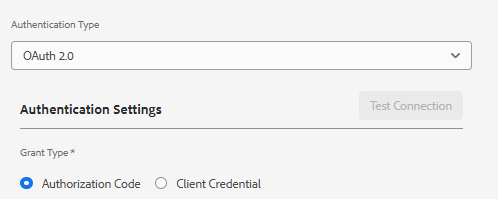
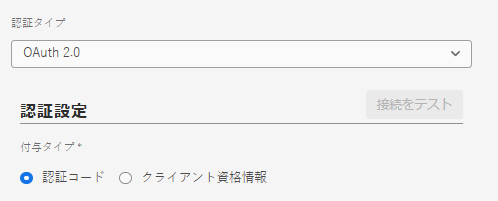
Updated by task 'AUTO_HANDOFF_1741010906730'  Changes for core/source commit https://git.corp.adobe.com/AdobeDocs/experience-manager-learn.en/commit/ce22dd482417a54d222165deaf485ff69c2856b7

diff --git a/help/cloud-service/forms/integrate-with-salesforce/create-data-source.md b/help/cloud-service/forms/integrate-with-salesforce/create-data-source.md
@@ -13,9 +13,9 @@ thumbnail: 331755.jpg
 exl-id: e2d56e91-c13e-4787-a97f-255938b5d290
 duration: 173
 source-git-commit: ce22dd482417a54d222165deaf485ff69c2856b7
-workflow-type: tm+mt
+workflow-type: ht
 source-wordcount: '75'
-ht-degree: 41%
+ht-degree: 100%
 
 ---
 
@@ -33,4 +33,4 @@ ht-degree: 41%
 | トークン URL にアクセス | https://newfocus-dev-ed.my.salesforce.com/services/oauth2/token |
 
 
-**更新およびアクセストークン URL のドメイン名は、Salesforce アカウントの設定に合わせて変更する必要があります**
+**更新およびアクセストークンの URL のドメイン名は、Salesforce アカウントの設定に合わせて変更する必要があります。**

diff --git a/help/cloud-service/forms/integrate-with-salesforce/create-connected-app.md b/help/cloud-service/forms/integrate-with-salesforce/create-connected-app.md
@@ -13,7 +13,7 @@ thumbnail: 331757.jpg
 exl-id: d9e6a4de-ba2c-4565-86aa-117646d665f5
 duration: 243
 source-git-commit: ce22dd482417a54d222165deaf485ff69c2856b7
-workflow-type: tm+mt
+workflow-type: ht
 source-wordcount: '92'
 ht-degree: 100%
 
